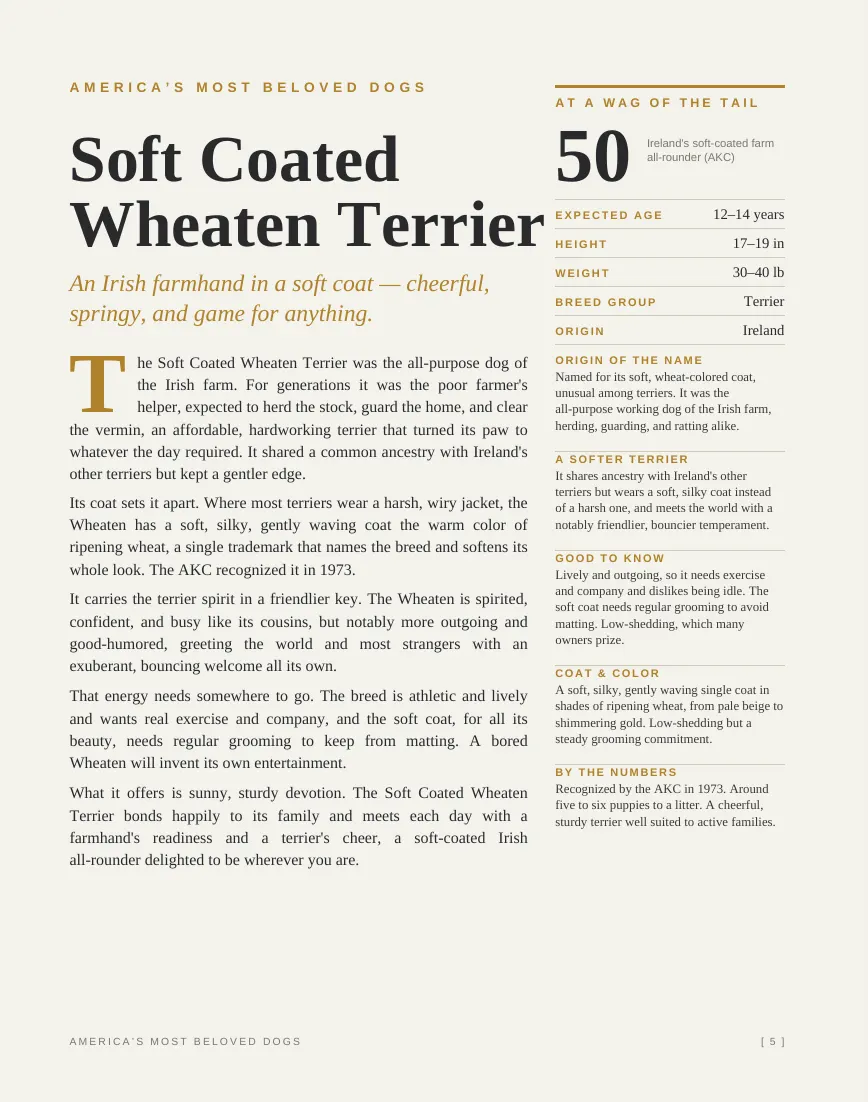
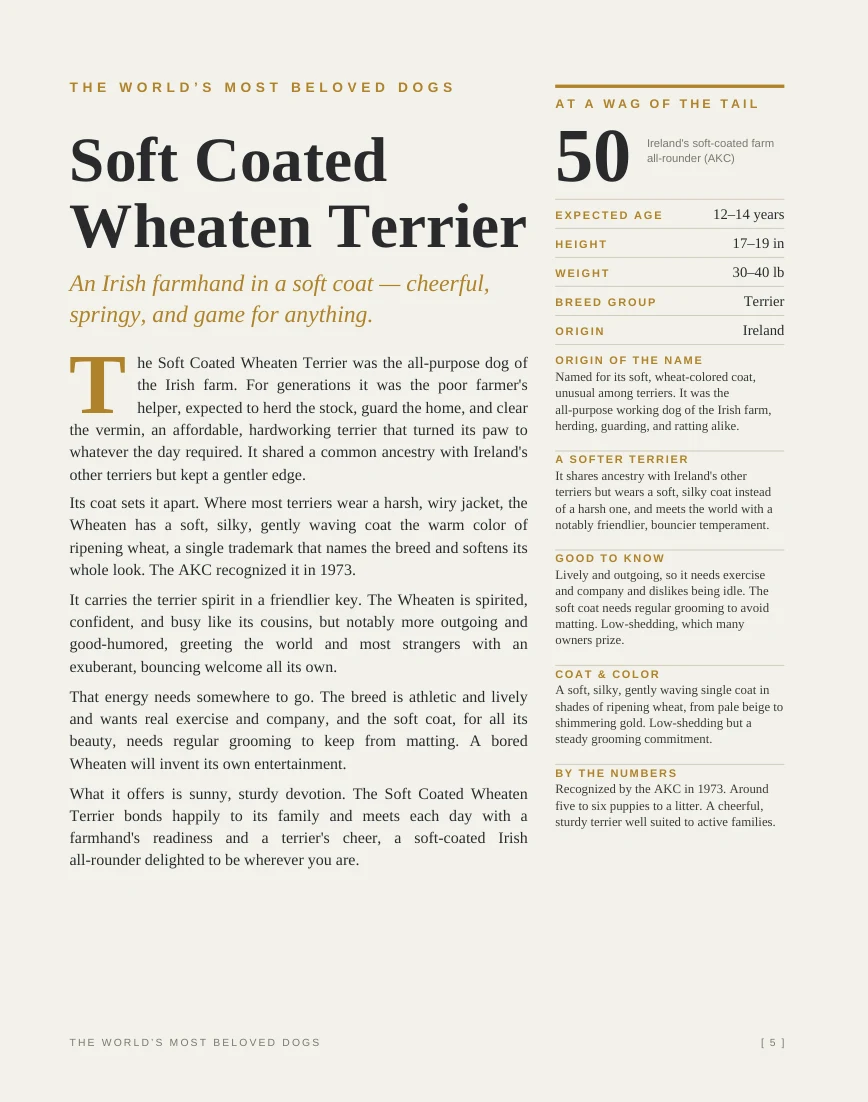
Dog Breeds: subtitle now the World's Most Beloved Canines, new cover, updated sample page
Claude-Session: https://claude.ai/code/session_01SeKpSLGBGsMQ4aXXZQw39N

diff --git a/site/books/dog-breeds/index.html b/site/books/dog-breeds/index.html
@@ -1,8 +1,8 @@
 <!doctype html><html lang="en"><head><meta charset="utf-8">
 <meta name="viewport" content="width=device-width,initial-scale=1">
-<title>Dog Breeds by Richard J. Koret</title><meta name="description" content="A Ranking and Character Study of America&#x27;s Most Beloved Canines. Fifty breeds, one countdown.">
+<title>Dog Breeds by Richard J. Koret</title><meta name="description" content="A Ranking and Character Study of the World&#x27;s Most Beloved Canines. Fifty breeds, one countdown.">
 <link rel="canonical" href="https://rainingcad.com/books/dog-breeds/">
-<meta property="og:title" content="Dog Breeds by Richard J. Koret"><meta property="og:description" content="A Ranking and Character Study of America&#x27;s Most Beloved Canines. Fifty breeds, one countdown.">
+<meta property="og:title" content="Dog Breeds by Richard J. Koret"><meta property="og:description" content="A Ranking and Character Study of the World&#x27;s Most Beloved Canines. Fifty breeds, one countdown.">
 <meta property="og:image" content="https://rainingcad.com/books/dog-breeds/cover.webp"><meta property="og:type" content="website">
 <style>
 @font-face{font-family:Spectral;font-weight:400;src:url(/fonts/spectral-400.woff2) format('woff2');font-display:swap}
@@ -45,7 +45,7 @@ h2{font:800 clamp(24px,4vw,32px)/1.1 Spectral,serif;margin:44px 0 14px}
 </style><link rel="icon" href="/favicon.ico" sizes="48x48"><link rel="icon" type="image/png" sizes="32x32" href="/favicon-32.png"><link rel="icon" type="image/png" sizes="16x16" href="/favicon-16.png"><link rel="apple-touch-icon" href="/apple-touch-icon.png"><style>.top{display:flex;align-items:center;gap:12px}.top .mk{display:block;line-height:0;margin-right:6px}.top .mk img{display:block;height:31px;width:auto}</style><link rel="stylesheet" href="/menu.css"><script src="/menu.js" defer></script><link rel="manifest" href="/manifest.webmanifest"><meta name="theme-color" content="#F3F2EC"><meta name="apple-mobile-web-app-capable" content="yes"><meta name="mobile-web-app-capable" content="yes"><meta name="apple-mobile-web-app-title" content="Cats &amp; Dogs"><meta name="apple-mobile-web-app-status-bar-style" content="default"><style id="mpcss">.mp{border-top:3px solid #B0822B;margin:46px 0 0;padding:22px 0 8px}.mp h2{font:800 clamp(22px,4vw,28px)/1.1 Spectral,Georgia,serif;margin:0 0 6px}.mp p.sm{margin:0 0 16px;color:#6F6F74;font:italic 400 17px/1.5 Spectral,Georgia,serif}.mp .g{display:grid;grid-template-columns:repeat(auto-fill,minmax(150px,1fr));gap:14px}.mp .g a{display:block;text-decoration:none;color:#2A2A2D;background:#fff;border:1px solid rgba(42,42,45,.16);padding:8px}.mp .g img{width:100%;height:auto;aspect-ratio:1/1;object-fit:contain;display:block;background:#fff}.mp .g b{display:block;font:800 15px/1.15 Spectral,Georgia,serif;margin:8px 0 1px}.mp .g span{display:block;font:11px Hanken,sans-serif;letter-spacing:.1em;text-transform:uppercase;color:#6F6F74}.mp .btns2{display:flex;gap:10px;flex-wrap:wrap;margin:16px 0 0}.mp .btns2 a{font:700 12px Hanken,sans-serif;letter-spacing:.14em;text-transform:uppercase;text-decoration:none;padding:11px 16px;border:2px solid #876217;color:#876217}.mp .btns2 a.m{background:#876217;color:#fff}</style><style id="bkcss">.bks{border-top:3px solid #B0822B;margin:46px 0 0;padding:22px 0 8px}.bks h2{font:800 clamp(22px,4vw,28px)/1.1 Spectral,Georgia,serif;margin:0 0 14px}.bks .g{display:grid;grid-template-columns:repeat(4,minmax(0,1fr));gap:16px;align-items:start}.bks .g a{display:block;text-decoration:none;color:#2A2A2D}.bks .g img{width:100%;height:auto;display:block;border:1px solid rgba(42,42,45,.16);box-shadow:0 8px 20px rgba(0,0,0,.14);background:#e9e7df}.bks .g b{display:block;font:800 15px/1.15 Spectral,Georgia,serif;margin:10px 0 1px}.bks .g span{display:block;font:11px Hanken,sans-serif;letter-spacing:.1em;text-transform:uppercase;color:#6F6F74}.bks .g.n3{grid-template-columns:repeat(3,minmax(0,1fr))}@media(max-width:560px){.bks .g,.bks .g.n3{grid-template-columns:1fr 1fr}}</style></head><body><nav class="pin" aria-label="Quick menu"><a class="h" href="/" aria-label="Raining Cats &amp; Dogs home"><img src="/img/rcd-mark-96.webp" width="46" height="30" alt=""></a><span class="q"><a href="/DY2027/">Dog Year</a><a href="/CY2027/">Cat Year</a></span><span class="pl"><a href="/books/">Books</a><a href="/merch/">Merch</a><span class="dd"><a href="/books/dog-breeds/" class="on">Dogs</a><span class="ddm"><a href="/books/dog-breeds/">Dog Breeds</a><a href="/books/every-dog-has-his-day/">Every Dog Has His Day</a><a href="/merch/t-shirts/">Dog T-shirts</a><a href="/merch/mugs/">Dog Mugs</a></span></span><span class="dd"><a href="/books/cat-breeds/">Cats</a><span class="ddm"><a href="/books/cat-breeds/">Cat Breeds</a><a href="/books/the-cats-pajamas/">The Cat&#x27;s Pajamas</a><a href="/merch/cats/">Cat Merch</a></span></span></span><button type="button" class="mb" aria-expanded="false" aria-controls="mpanel" aria-label="Menu"><b>Menu</b><i><span></span><span></span><span></span></i></button></nav><div class="mpanel" id="mpanel" hidden><a href="/">Home</a><a href="/DY2027/">Dog Year 2027</a><a href="/CY2027/">Cat Year 2027</a><a href="/books/">Books</a><a href="/merch/">Merch</a><div class="mg">Dogs</div><a class="s" href="/books/dog-breeds/">Dog Breeds</a><a class="s" href="/books/every-dog-has-his-day/">Every Dog Has His Day</a><a class="s" href="/merch/t-shirts/">Dog T-shirts</a><a class="s" href="/merch/mugs/">Dog Mugs</a><div class="mg">Cats</div><a class="s" href="/books/cat-breeds/">Cat Breeds</a><a class="s" href="/books/the-cats-pajamas/">The Cat&#x27;s Pajamas</a><a class="s" href="/merch/cats/">Cat Merch</a></div><div class="wrap">
 <div class="top"><a class="mk" href="/" aria-label="Raining Cats &amp; Dogs home"><img src="/img/rcd-mark-96.webp" srcset="/img/rcd-mark-96.webp 1x,/img/rcd-mark-192.webp 2x" width="48" height="31" alt="Raining Cats &amp; Dogs"></a><a href="/">Raining Cats &amp; Dogs</a><a href="/books/">Books</a><a href="/DY2027/">Dog Year 2027</a><a href="/merch/">Merch</a></div>
 <div class="hero"><img class="cov" src="cover.webp" alt="Dog Breeds cover" width="1000">
-<div><p class="kick">Breed guide</p><h1>Dog Breeds</h1><p class="sub">A Ranking and Character Study of America&#x27;s Most Beloved Canines</p><p>Fifty breeds, one countdown. From the steady retrievers of the duck blind to a pocket-sized dog convinced it runs the household, this is a ranked tour of America&#x27;s most beloved dogs, counting down from fifty to the single dog at the very top. Every breed earns a full-page portrait and a page of what truly matters: where it came from, how it behaves, and what living with one is really like. Part field guide, part character study, part friendly argument. Includes a contents page by rank and an alphabetical index of breeds.</p>
+<div><p class="kick">Breed guide</p><h1>Dog Breeds</h1><p class="sub">A Ranking and Character Study of the World&#x27;s Most Beloved Canines</p><p>Fifty breeds, one countdown. From the steady retrievers of the duck blind to a pocket-sized dog convinced it runs the household, this is a ranked tour of the world&#x27;s most beloved dogs, counting down from fifty to the single dog at the very top. Every breed earns a full-page portrait and a page of what truly matters: where it came from, how it behaves, and what living with one is really like. Part field guide, part character study, part friendly argument. Includes a contents page by rank and an alphabetical index of breeds.</p>
 <p class="meta">Richard J. Koret &middot; 110 pages &middot; 8 x 10 in &middot; Full color</p>
 <div class="btns"><a class="btn main" href="https://www.amazon.com/dp/B0HN2FXQGQ" rel="noopener">Paperback on Amazon</a><a class="btn main" href="https://www.amazon.com/dp/B0HN2RCQMN/" rel="noopener">Kindle edition on Amazon</a></div></div></div>
 <h2>Look inside</h2><div class="look"><a href="s1.webp"><img src="s1.webp" loading="lazy" alt="Dog Breeds sample page 1"></a><a href="s2.webp"><img src="s2.webp" loading="lazy" alt="Dog Breeds sample page 2"></a><a href="s3.webp"><img src="s3.webp" loading="lazy" alt="Dog Breeds sample page 3"></a><a href="s4.webp"><img src="s4.webp" loading="lazy" alt="Dog Breeds sample page 4"></a><a href="s5.webp"><img src="s5.webp" loading="lazy" alt="Dog Breeds sample page 5"></a><a href="s6.webp"><img src="s6.webp" loading="lazy" alt="Dog Breeds sample page 6"></a><a href="s7.webp"><img src="s7.webp" loading="lazy" alt="Dog Breeds sample page 7"></a><a href="s8.webp"><img src="s8.webp" loading="lazy" alt="Dog Breeds sample page 8"></a></div>
